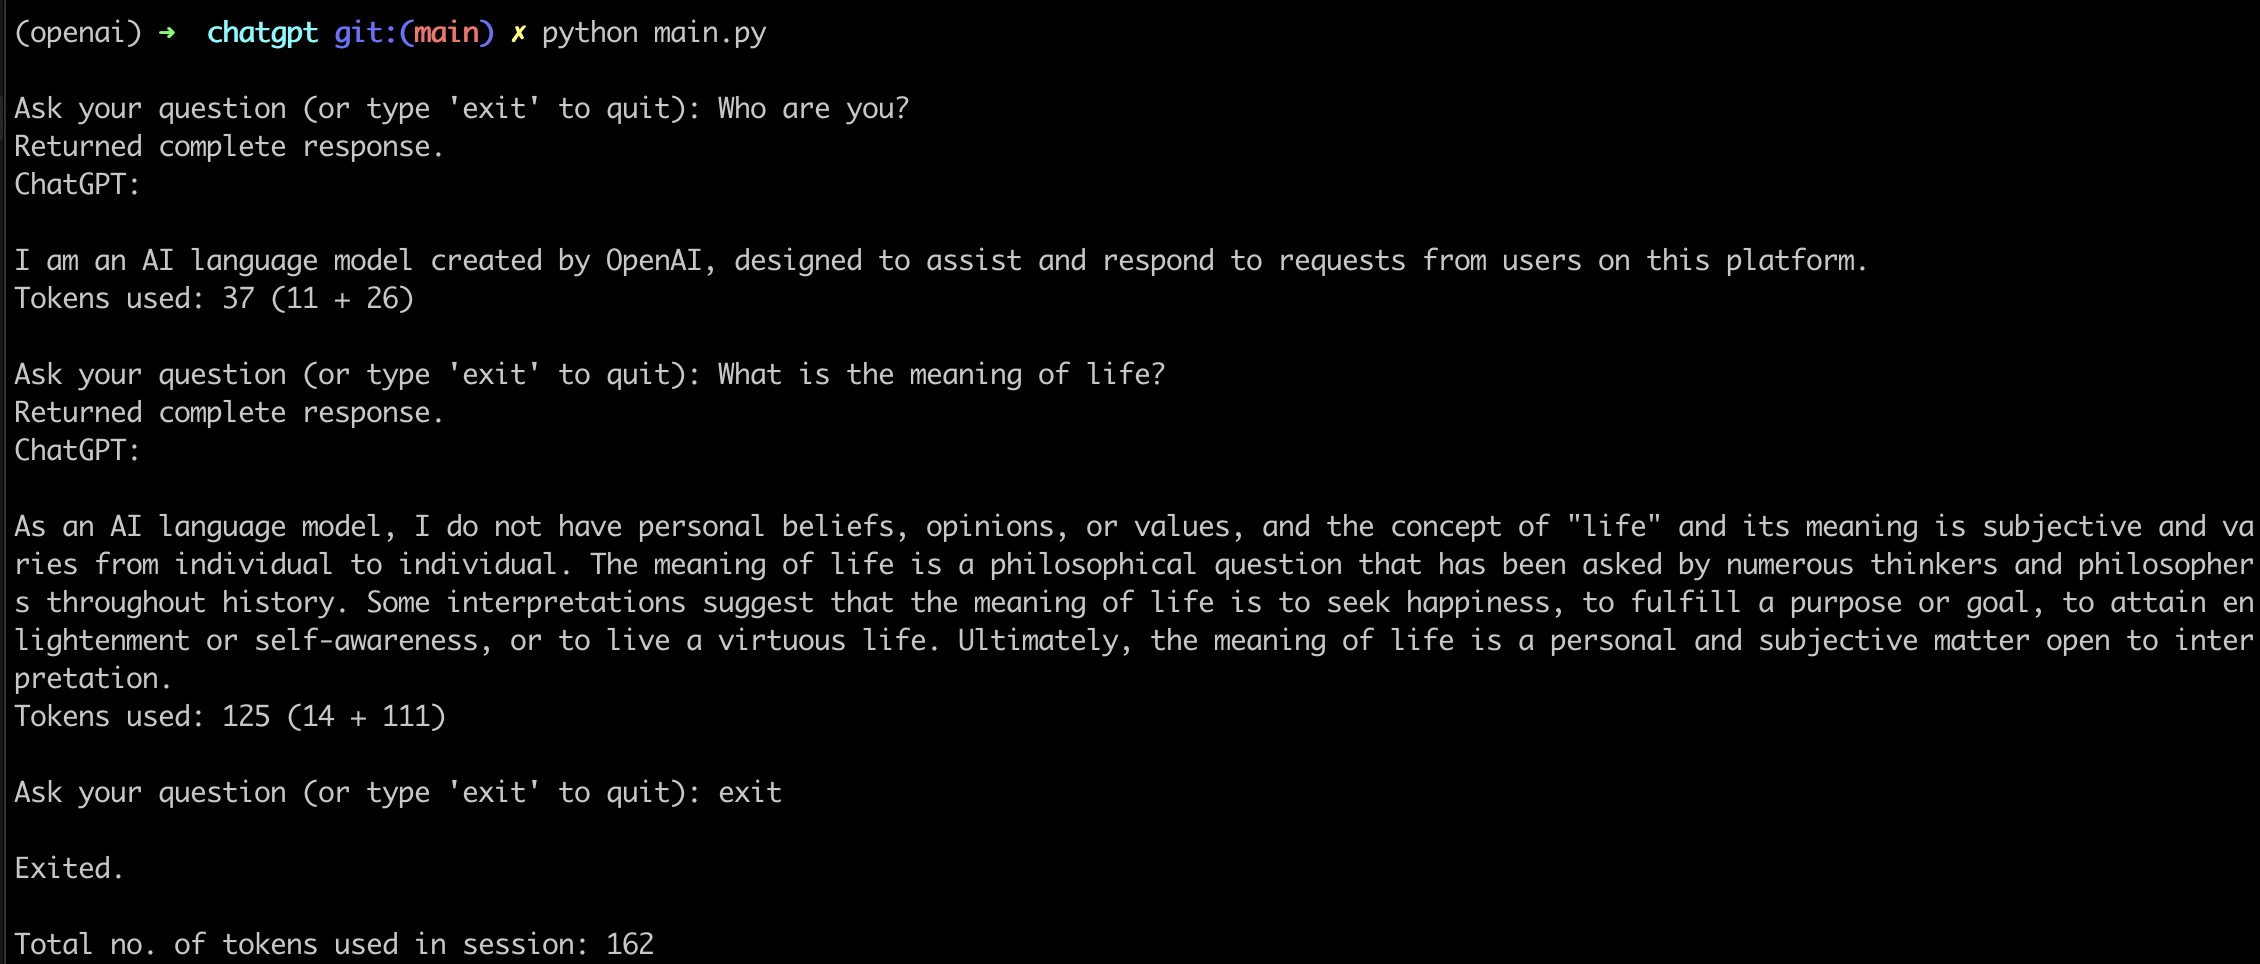
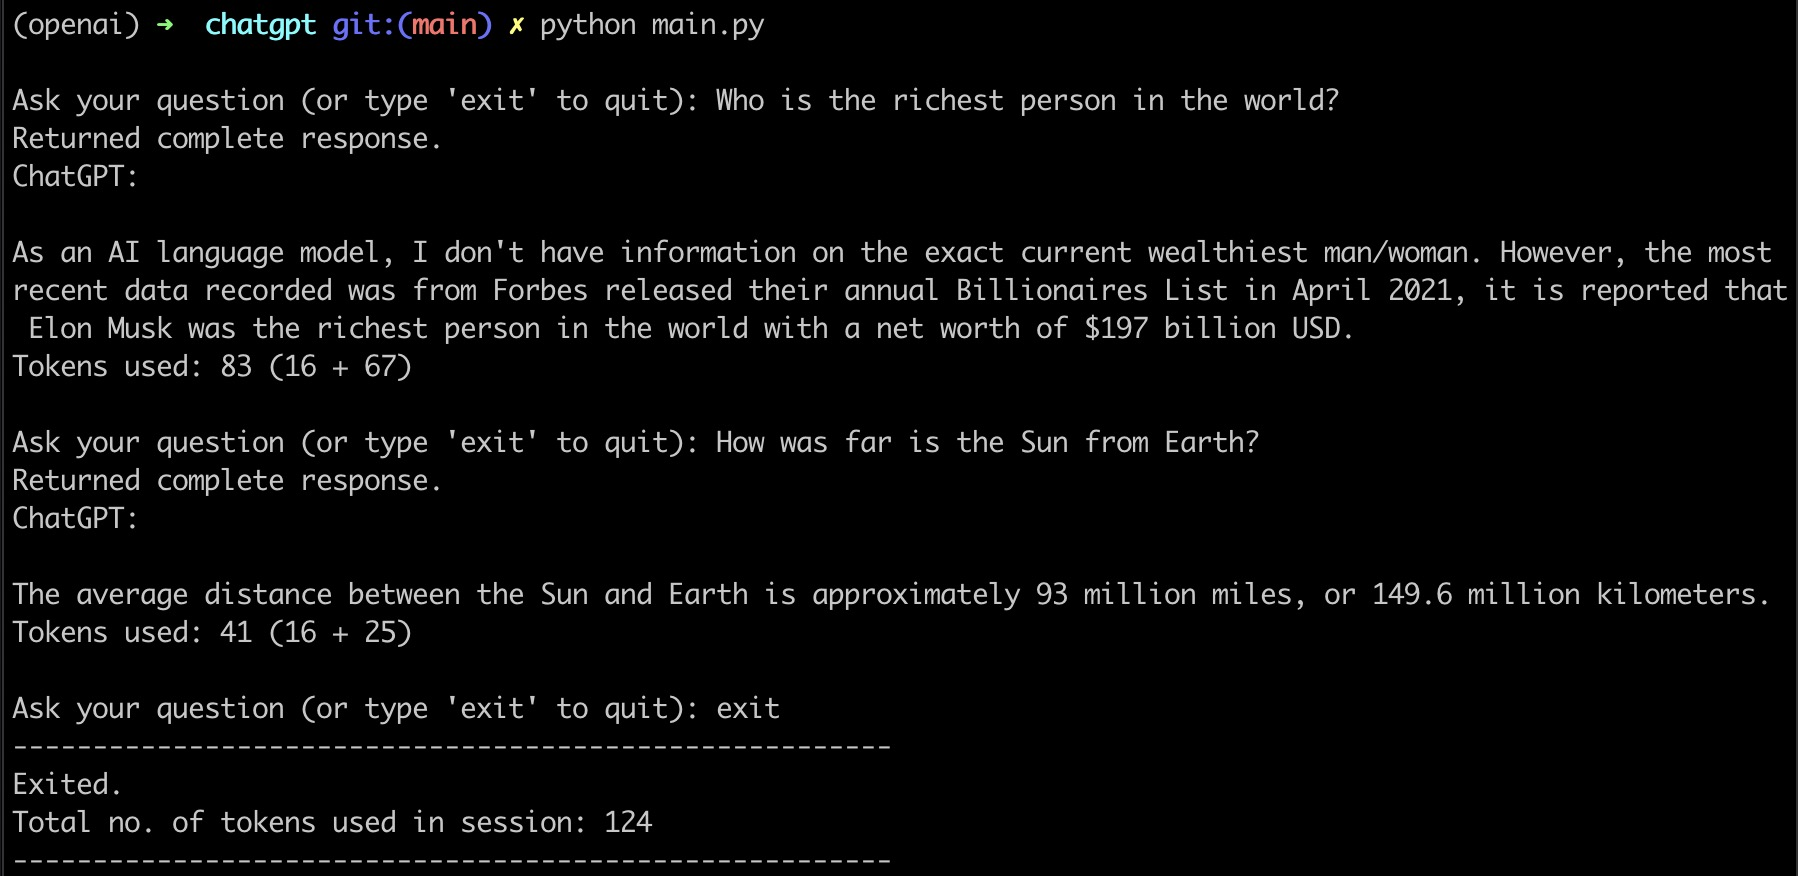
minor formatting change

diff --git a/main.py b/main.py
@@ -51,6 +51,7 @@ while True:
         break
 
 
-print()
+print("-------------------------------------------------------")
 print("Exited.")
-print(f"\nTotal no. of tokens used in session: {tokens_session}")
+print(f"Total no. of tokens used in session: {tokens_session}")
+print("-------------------------------------------------------")

diff --git a/README.md b/README.md
@@ -10,5 +10,6 @@ A ChatGPT CLI tool.
     ```
 
 Currently using the model **"gpt-3.5-turbo"**. \
+<br>
 E.g.
 ![example](example.jpg "example")
